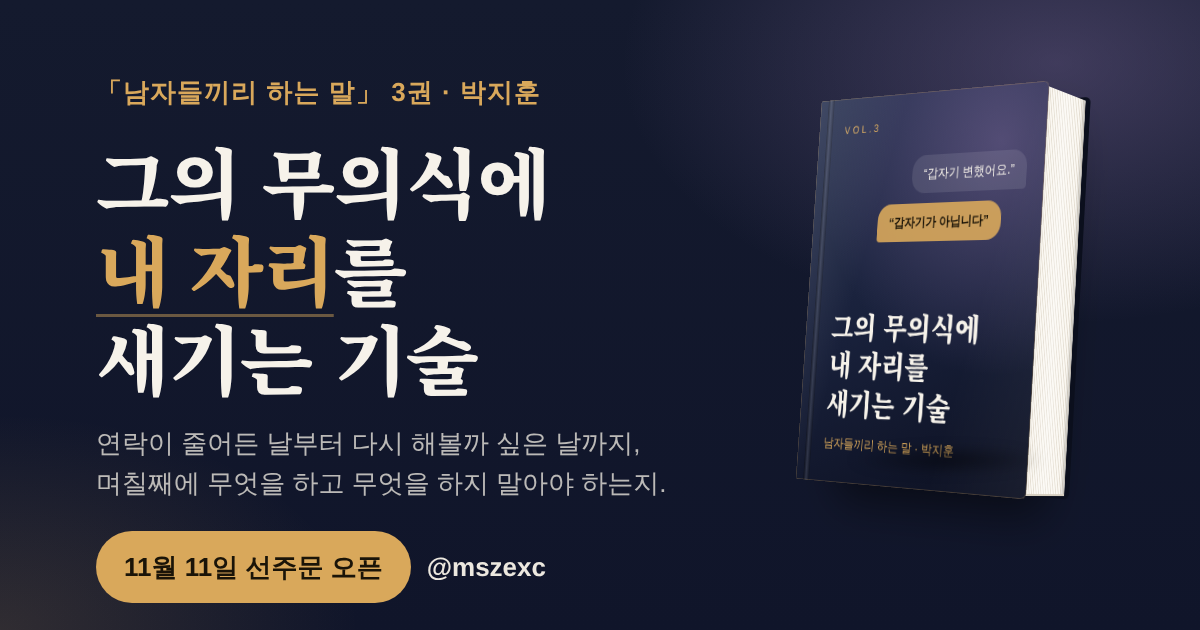
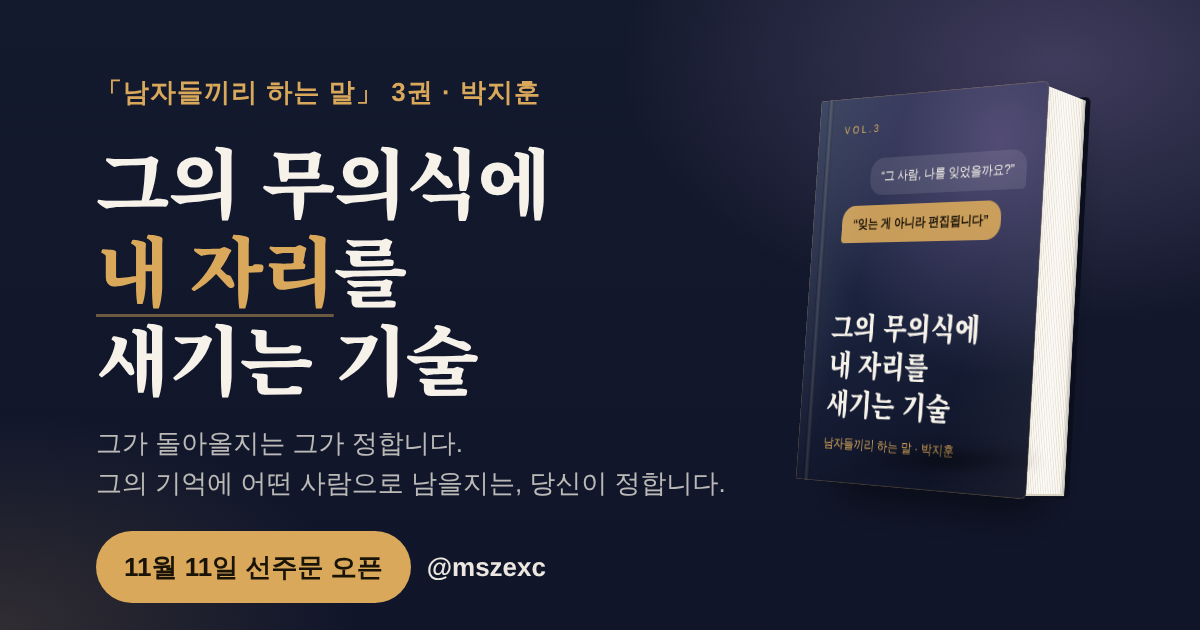
3권 상세페이지: 새 제목에 맞춰 글 재구성
- 중심 문장: 그가 돌아올지는 그가 정하고, 그의 기억에 어떤 사람으로 남을지는 당신이 고른다
- 「제목의 뜻」 섹션 추가: 기억에 남는 세 자리를 목차의 장(2부·10장·16장)과 연결
- FAQ에 "조종하는 책인가요?" 추가, 책 표지 말풍선·공유 문구·공유 이미지 문구 교체
- 휴대폰에서 줄바꿈이 사라질 때 띄어쓰기가 붙던 문제 수정

Claude-Session: https://claude.ai/code/session_01J9i5yL8MFhQ5W67Sx3nDW6

diff --git a/index.html b/index.html
@@ -4,10 +4,10 @@
   <meta charset="utf-8">
   <meta name="viewport" content="width=device-width, initial-scale=1, viewport-fit=cover">
   <title>그의 무의식에 내 자리를 새기는 기술 | 남자들끼리 하는 말 3권</title>
-  <meta name="description" content="「남자들끼리 하는 말」 3권. 연락이 줄어든 날부터 다시 해볼까 싶은 날까지, 며칠째에 무엇을 하고 무엇을 하지 말아야 하는지 날짜별로 적었습니다. 11월 11일 선주문 오픈.">
+  <meta name="description" content="「남자들끼리 하는 말」 3권. 그가 돌아올지는 그가 정합니다. 그의 기억에 당신이 어떤 사람으로 남을지는, 며칠째에 무엇을 하고 무엇을 하지 않느냐로 정해집니다. 11월 11일 선주문 오픈.">
   <meta property="og:type" content="website">
   <meta property="og:title" content="그의 무의식에 내 자리를 새기는 기술 — 남자들끼리 하는 말 3권">
-  <meta property="og:description" content="연락이 줄어든 날부터 다시 해볼까 싶은 날까지, 날짜별로 적었습니다. 11월 11일 선주문 오픈.">
+  <meta property="og:description" content="그가 돌아올지는 그가 정합니다. 그의 기억에 어떤 사람으로 남을지는, 당신이 정합니다. 11월 11일 선주문 오픈.">
   <meta property="og:url" content="https://huncync.github.io/-/">
   <meta property="og:site_name" content="남자들끼리 하는 말">
   <meta property="og:locale" content="ko_KR">
@@ -33,6 +33,7 @@
     <div class="container nav-inner">
       <a href="#top" class="logo">남자들끼리 하는 말</a>
       <nav class="nav-links" aria-label="섹션">
+        <a href="#meaning">제목의 뜻</a>
         <a href="#where">어디서부터</a>
         <a href="#sample">미리보기</a>
         <a href="#toc">목차</a>
@@ -51,7 +52,7 @@
         <div class="hero-text">
           <p class="eyebrow">「남자들끼리 하는 말」 3권 · 박지훈 <a href="https://www.instagram.com/mszexc/" target="_blank" rel="noopener">@mszexc</a></p>
           <h1>그의 무의식에<br><em>내 자리</em>를<br>새기는 기술</h1>
-          <p class="lead">연락이 줄어든 날부터 다시 해볼까 싶은 날까지 — 며칠째에 무엇을 하고, 무엇을 하지 말아야 하는지 <strong>날짜별로</strong> 적었습니다.</p>
+          <p class="lead">그가 돌아올지는 그가 정합니다. 하지만 그의 기억에 당신이 <strong>어떤 사람으로 남을지</strong>는, 며칠째에 무엇을 하고 무엇을 하지 않느냐로 정해집니다. 그걸 <strong>날짜별로</strong> 적었습니다.</p>
           <div class="hero-cta">
             <a href="#reserve" class="btn" id="hero-cta">선주문 알림 받기</a>
             <a href="#sample" class="btn btn-ghost">1장 미리보기</a>
@@ -78,8 +79,8 @@
             <div class="book-cover">
               <span class="book-label">VOL.3</span>
               <div class="book-bubbles">
-                <span class="bubble b1">“갑자기 변했어요.”</span>
-                <span class="bubble b2">“갑자기가 아닙니다”</span>
+                <span class="bubble b1">“그 사람, 나를 잊었을까요?”</span>
+                <span class="bubble b2">“잊는 게 아니라 편집됩니다”</span>
               </div>
               <h2 class="book-title">그의 무의식에<br>내 자리를<br>새기는 기술</h2>
               <p class="book-sub">남자들끼리 하는 말 · 박지훈</p>
@@ -89,12 +90,42 @@
       </div>
     </section>
 
-    <!-- ② 지금 어디 계신가 -->
+    <!-- ② 제목의 뜻 -->
+    <section class="section section-tint" id="meaning">
+      <div class="container">
+        <p class="eyebrow center">제목의 뜻</p>
+        <h2 class="section-title">남자는 사람을 통째로 기억하지 않습니다</h2>
+        <p class="section-lead">헤어진 뒤 남자의 기억은 시간이 지나며 편집됩니다. 싸운 이유는 흐려지고, 몇 개의 장면과 마지막 몇 마디가 남습니다. <br>그 남는 자리에 당신이 어떤 모습으로 있을지는, 그가 아니라 지금의 당신이 고를 수 있습니다.</p>
+        <div class="cards cards-3">
+          <article class="card">
+            <span class="card-num">01</span>
+            <span class="card-tag">2부 · 11장</span>
+            <h3>마지막 몇 마디</h3>
+            <p>헤어지는 날과 그 뒤 2주에 보낸 말이 가장 오래 남습니다. 그래서 2부는 날짜별로 <b>보내지 말 것</b>부터 적었습니다.</p>
+          </article>
+          <article class="card">
+            <span class="card-num">02</span>
+            <span class="card-tag">10장 · 22장</span>
+            <h3>남겨진 것</h3>
+            <p>사진, 계정, 물건, 공통 친구. 무엇을 지우고 무엇을 남기느냐가 그의 기억 속 당신의 모습을 바꿉니다.</p>
+          </article>
+          <article class="card">
+            <span class="card-num">03</span>
+            <span class="card-tag">3부 · 16장</span>
+            <h3>공백 뒤의 첫 문장</h3>
+            <p>몇 달의 침묵을 깨는 한 문장이, 그동안의 공백을 어떤 기억으로 남길지 정합니다.</p>
+          </article>
+        </div>
+        <p class="meaning-close">그의 마음을 움직이는 기술이 아닙니다.<br><b>그의 기억에 어떤 사람으로 남을지, 당신이 고르는 기술</b>입니다.</p>
+      </div>
+    </section>
+
+    <!-- ③ 지금 어디 계신가 -->
     <section class="section" id="where">
       <div class="container">
         <p class="eyebrow center">먼저 — 지금 어디 계신가</p>
         <h2 class="section-title">이 책은 처음부터 읽는 책이 아닙니다</h2>
-        <p class="section-lead">맨 앞 두 쪽이 분기표입니다. 다섯 문항에 답하면 당신이 읽어야 할 부로 보냅니다.<br>지금 상황이 어느 쪽인지부터 보십시오.</p>
+        <p class="section-lead">맨 앞 두 쪽이 분기표입니다. 다섯 문항에 답하면 당신이 읽어야 할 부로 보냅니다. <br>지금 상황이 어느 쪽인지부터 보십시오.</p>
         <div class="cards cards-4">
           <button type="button" class="card pick" data-part="1부 멀어지는 중">
             <span class="card-emoji">📱</span>
@@ -157,7 +188,7 @@
           “이 책은 그가 지금 무슨 말을 하는지까지입니다. 그가 말을 줄이기 시작한 다음은, 제가 여기 쓸 수 없었습니다.”
           <cite>— Vol.2 마지막 쪽</cite>
         </blockquote>
-        <p class="section-lead">2권은 거기서 멈췄습니다. 3권은 거기서 시작합니다.<br>
+        <p class="section-lead">2권은 거기서 멈췄습니다. 3권은 거기서 시작합니다. <br>
           1·2권은 해석을 드렸고, 3권은 모든 장이 같은 네 칸으로 되어 있습니다.</p>
         <div class="cards cards-4">
           <article class="card">
@@ -456,6 +487,10 @@
           <details>
             <summary>환불이 되나요?</summary>
             <p>받으신 뒤 7일 안, 이유를 묻지 않고 전액 환불해 드립니다. 1·2권과 겹치는 장이 있다고 느끼셔도 마찬가지입니다.</p>
+          </details>
+          <details>
+            <summary>"새기는 기술"이면, 상대를 조종하는 책인가요?</summary>
+            <p>아니요. 그의 마음을 움직이는 법이 아니라, 그의 기억에 당신이 어떤 사람으로 남을지를 스스로 고르는 법입니다. 그래서 모든 대본 끝에 보내면 안 되는 조건과 멈춰야 할 때가 같이 붙어 있습니다.</p>
           </details>
           <details>
             <summary>이대로 하면 그 사람이 돌아오나요?</summary>

diff --git a/script.js b/script.js
@@ -239,7 +239,7 @@ $("#extra-form").addEventListener("submit", async (e) => {
 // ── 공유 ──
 $("#share-btn").addEventListener("click", async () => {
   const url = location.origin + location.pathname;
-  const shareData = { title: "그의 무의식에 내 자리를 새기는 기술 — 남자들끼리 하는 말 3권", text: "2권은 거기서 멈췄고, 3권은 거기서 시작한대.", url };
+  const shareData = { title: "그의 무의식에 내 자리를 새기는 기술 — 남자들끼리 하는 말 3권", text: "그가 돌아올지는 그가 정해도, 그의 기억에 내가 어떤 사람으로 남을지는 내가 고를 수 있대.", url };
   if (navigator.share) {
     try { await navigator.share(shareData); } catch { /* 취소 */ }
     return;

diff --git a/style.css b/style.css
@@ -260,6 +260,11 @@ p { margin: 0; }
 .excerpt-body strong { color: #f6f2ea; background: linear-gradient(transparent 68%, rgba(217, 168, 91, .35) 68%); }
 .excerpt-note { margin-top: 24px; padding-top: 16px; border-top: 1px solid var(--night-line); font-size: 14px; color: var(--gold); }
 
+/* 제목의 뜻 */
+.meaning-close { max-width: 760px; margin: 40px auto 0; text-align: center; font-family: var(--serif); font-size: 19px; line-height: 1.8; color: var(--ink-soft); }
+.meaning-close b { color: var(--ink); background: linear-gradient(transparent 70%, var(--gold-soft) 70%); }
+.card p b { color: var(--ink); }
+
 /* Vol.2 인용 + 뺀 것/넣은 것 */
 .vol2-quote {
   max-width: 720px; margin: 8px auto 20px; padding: 20px 24px;
